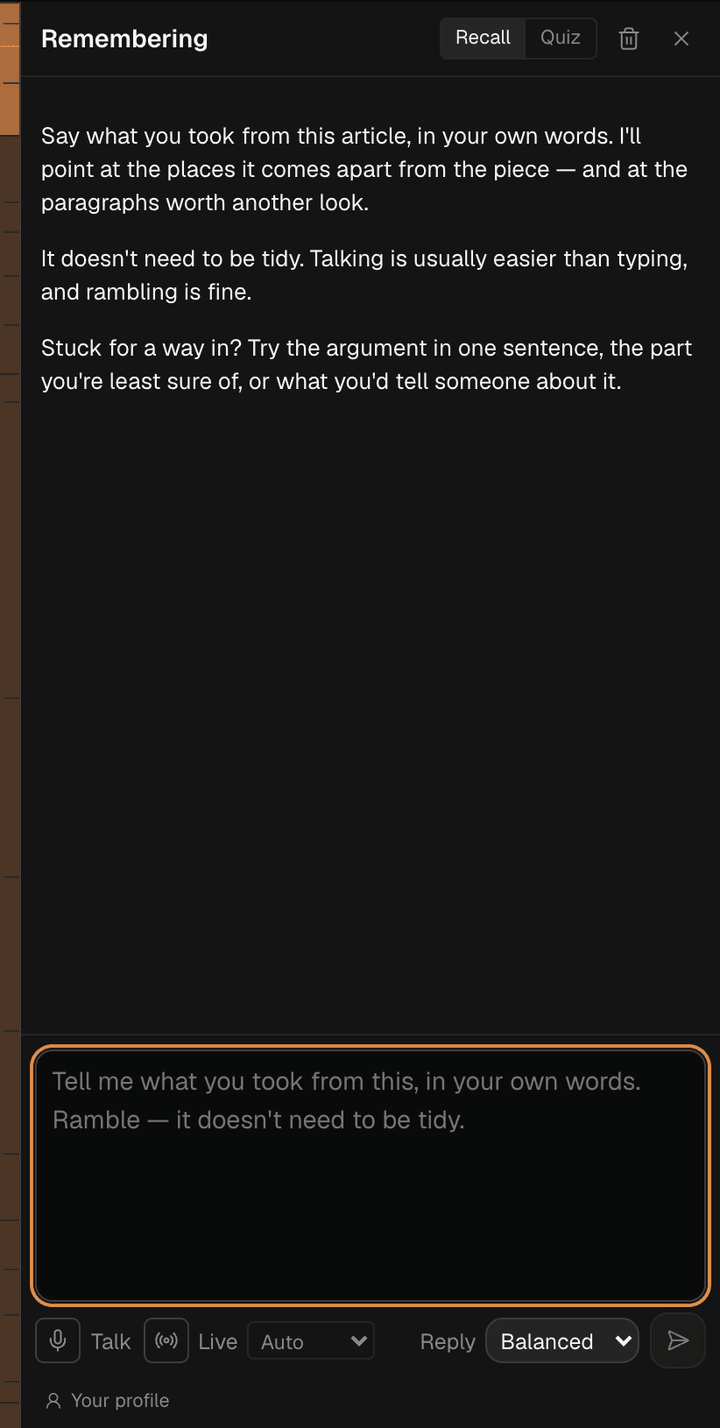
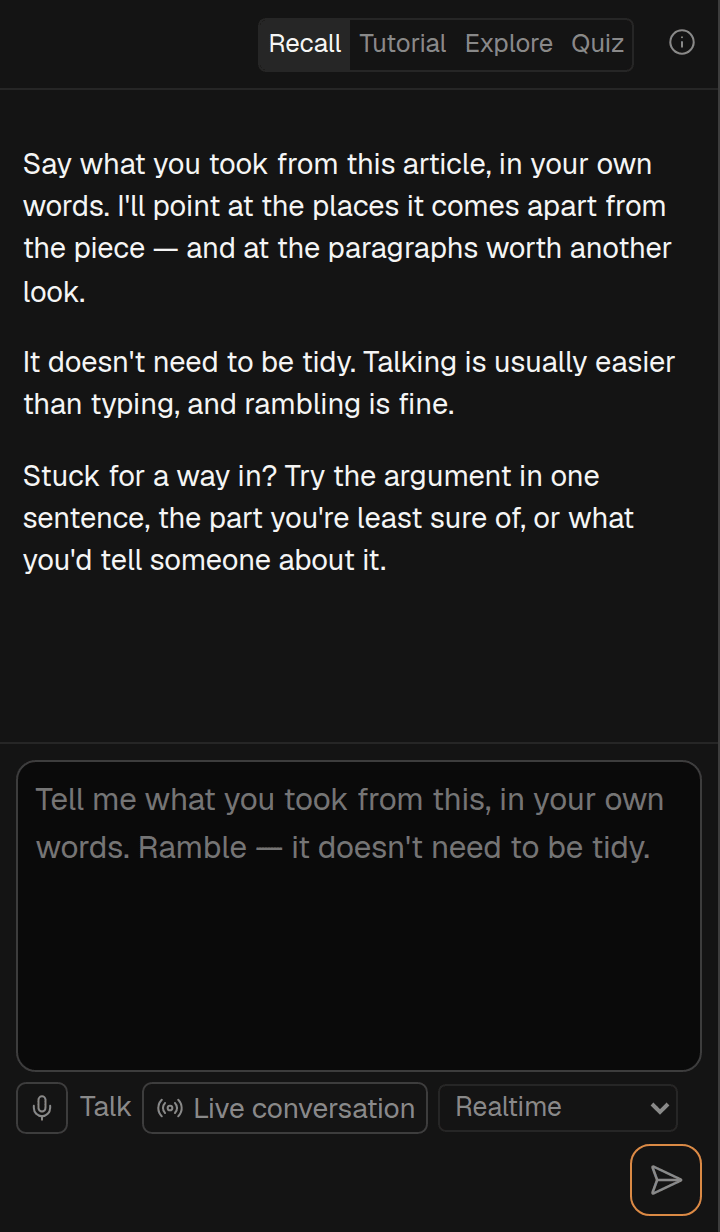
261005l stage 3: the two Features screenshots retaken as Learn, and the browser pass (qi-qg6ydbp7)
learn.png and quiz.png were headed Remembering and Remember and showed two
chips. Both are retaken on the band alone at a 916px window, where Learn's
band is 360 CSS px, at 2x: four chips, no old heading. shots.ts has the new
heights and says how they were made. landing-assets.test.ts was red on the
new bytes with the old numbers, and is green.

The browser pass in the plan's done-check: twelve lines, all hold, nothing
to fix. The record, the screenshots and GPT Sol's plan review (build with
changes, six findings, all taken) are in the plan.

diff --git a/src/web/shots.ts b/src/web/shots.ts
@@ -32,6 +32,18 @@
  * `meaningPanel`) show no bar and were still true, so they stayed.
  * docs/plans/261002b-bring-the-signed-out-home-page-features-and-design-up-to-date.md.
  *
+ * **`learn` and `quiz` were retaken on 2026-10-06**, after the mode was renamed:
+ * the old pair were headed *Remembering* and *Remember* and showed two chips
+ * where there are four. Both are the band alone at a 916×700 window, which is
+ * the width where Learn's band is 360 CSS px (src/web/layout.ts § `bandWidth`;
+ * at 1440 it is 544, and the text would draw at two thirds of its size), at 2×
+ * so the file is 720 wide with no resampling. The experimental switch was on,
+ * so Explore's chip is in both. `quiz` is small because it is mostly flat
+ * background: at `--quality 65-92` it came to 18KB, under the 20KB floor in
+ * tests/landing-assets.test.ts, so that one file was quantised at
+ * `--quality 80-98`.
+ * docs/plans/261005l-remember-becomes-learn-and-explore-covers-critiques.md § Stage 3.
+ *
  * **Every landscape shot is 2160 wide since that retake, and that is the
  * width to keep.** The pages draw a landscape shot at 1152px (SiteBits.tsx §
  * Showcase), so 1440 was 1.25× and visibly soft; 2160 is about 1.9×. The
@@ -140,14 +152,14 @@ export const SHOTS = {
     src: learnShot,
     file: "learn.png",
     w: 720,
-    h: 1428,
+    h: 1232,
     alt: "Learn mode, waiting for the reader to say what they took from the piece.",
   },
   quiz: {
     src: quizShot,
     file: "quiz.png",
     w: 720,
-    h: 1469,
+    h: 962,
     alt: "Quiz mode: short-answer questions generated from the article, one at a time.",
   },
   referee: {

diff --git a/docs/plans/261005l-remember-becomes-learn-and-explore-covers-critiques.md b/docs/plans/261005l-remember-becomes-learn-and-explore-covers-critiques.md
@@ -363,14 +363,13 @@ playwright-core against system Chrome, signed in with `scripts/browser-sign-in.t
 - Then `/features` looked at, at 1440 and 390, one viewport at a time; `naturalWidth`, `complete`
   and computed `opacity` read from the DOM for the two images, not judged from a picture.
 
-**One choice, named: the experimental switch is off for both pictures.** With it off the chips are
-Recall, Tutorial, Quiz; with it on, Explore is a fourth. Off is what somebody who signs up from
-`/features` will see, and a picture that shows a chip they cannot find is the kind of small untruth
-[261002b](261002b-bring-the-signed-out-home-page-features-and-design-up-to-date.md) retook the
-landscape shots to remove. The tile's caption already says Explore is *one of the Experimental
-Features*. What it gives up: the picture does not show Explore at all. The other option, on, shows
-the whole of Learn and matches the caption naming all of it, at the cost above. If Explore leaves
-the switch the picture is reshot with it.
+**One choice, named: the experimental switch is on for both pictures**, so the chips are Recall,
+Tutorial, Explore, Quiz. I first planned it off, because off is what somebody who signs up from
+`/features` sees before they find the switch. The plan review (S3-2) argued for on and I agree:
+the tile's caption names Explore and says it is *one of the Experimental Features*, and `/features`
+already pictures other experimental things (Diagram, Referee). The page shows what the product
+has, not only what is on by default. What it gives up: a new reader sees three chips until they
+turn the switch on, and the picture shows four; the caption is what tells them why.
 
 **The simpler option passed over:** crop or paint over the two headings. Passed over because the
 chips and the picker are also out of date, and a doctored screenshot is not a screenshot.
@@ -394,9 +393,9 @@ A Sonnet subagent, with [browser-control.md](../project/browser-control.md) then
 | Chat's list | a Recall thread's row reads *From Learn › Recall* |
 | Explore, switch on | the empty state's two lines say the wider remit; four starters, the fourth *Where might this piece be wrong, or missing something?* |
 | One real Explore turn | from the fourth starter: sent word for word, a reply streams, it states one possible problem and cites a passage |
-| The address | `?mode=learn` (since 261006a); an old `?mode=remember&remember=quiz` link still opens Quiz |
+| The address | `?mode=learn` (since 261006a), and `?mode=learn&learn=quiz` opens Quiz; an old `?mode=remember&remember=quiz` link opens Learn at **Recall**, because `?remember=` is not aliased (`src/web/params.ts` § Learn's four sub-modes) |
 
-Screenshots of what it saw go in `docs/plans/261005l-shots/` as `s3-*.png`, and the record in this
+Screenshots of what it saw go in `docs/plans/261005l-learn-shots/` as `s3-*.png`, and the record in this
 section. **What it finds:** a wrong word or a broken control that is plainly this report's is fixed
 here, red first; anything wider is written up and named for the Overseer's queue in my final
 message, since this session cannot write the queue.
@@ -404,7 +403,103 @@ message, since this session cannot write the queue.
 ### Done is
 
 Both pictures replaced and `shots.ts` agreeing with them; `tests/landing-assets.test.ts`,
-`tests/features-page-modes.test.ts`, `npm test` on what was touched and `npm run typecheck` green;
-the table above filled in; GPT Sol's review of the diff; pushed to `dev`; the note
-`docs/user-feedback/261005_0748-…` saying all three parts have ended, and
-`scripts/feedback-endings.ts` run.
+`tests/features-page-modes.test.tsx` and `npm run typecheck` green, and the full suite once through
+`scripts/tmux-job.ts` (stage 1's done-check, never re-run after its merge); the table above filled
+in; GPT Sol's review of the diff; pushed to `dev`; the feedback notes saying all three parts have
+ended, and `scripts/feedback-endings.ts` run and showing `spya-mvmpks` as `shipped`.
+
+### What the reshoot produced
+
+Two Sonnet subagents on this worktree's dev server, 2026-10-06, playwright-core against system
+Chrome as the seeded local admin, the experimental switch already on.
+
+| | `learn.png` | `quiz.png` |
+|---|---|---|
+| Was | 720×1428, headed *Remembering*, chips Recall and Quiz | 720×1469, headed *Remember*, chips Recall and Quiz |
+| Now | 720×1232, 35,974 bytes | 720×962, 20,894 bytes |
+| Article | `cargocult-spya-rz663q`, `?mode=learn` | `writes`, `?mode=learn&learn=quiz`; an existing quiz, so no model call |
+| Shows | chips Recall, Tutorial, Explore, Quiz; the invitation; the composer | the same chips; *Question 1 of 3*, *What prediction does Paul Graham make about writing ability in a couple of decades?*, unanswered |
+
+- **The band has no heading any more**, so neither picture says *Learn*; the chips are what names
+  it, and the tile's title is beside it. Read from the DOM: no element in either frame holds
+  *Remember* or *Remembering*.
+- **The window is 916×700, not 1440×900.** At 1440 Learn's band is 544 CSS px wide
+  (`src/web/layout.ts` § `bandWidth` gives the band the room the reading measure does not use), so
+  a 720px file drawn 347px wide on `/features` would put the app's text at about two thirds of its
+  size. The first take was that, and was thrown away. At 916 the band is 360, the capture at 2× is
+  720 with no resampling, and the text draws at 96%. No CSS was injected; this is a real desktop
+  window, above the width where the band becomes a phone's cover sheet.
+- **`quiz.png` was quantised at `--quality 80-98`**, not the 65-92 the doc gives. At 65-92 it is
+  18KB, under the 20KB floor in `tests/landing-assets.test.ts`; the picture is mostly flat
+  background. Opening the reference answer would have added bytes and a bare block-id chip, which
+  reads as debug text. `shots.ts`'s comment says so.
+- **Red, then green.** `tests/landing-assets.test.ts` with the new bytes and the old numbers: 2
+  failed of 29. With `h: 1232` and `h: 962`: 29 of 29. Both `alt:` lines still say what is shown.
+- **`/features`, signed out**, from the DOM at both widths: each image `complete`, `opacity` 1,
+  rendered ratio equal to natural (learn 347.3×594.3 at 1440 and 325×556.1 at 390; quiz 347.3×464.1
+  and 325×434.2). [1440](261005l-learn-shots/s3-features-1440.png),
+  [390](261005l-learn-shots/s3-features-390.png).
+
+### What the browser pass found
+
+On `/read/vb-spya-vu3xen` (*Life is Short*), 1440×900, and 390×844 where marked. Every string is
+read from the DOM. **All twelve lines hold, and nothing needed fixing.**
+
+| Where | Seen | |
+|---|---|---|
+| The bar's button (and at 390) | the sixteenth `role="radio"` reads *Learn*; none reads *Remember* | ✓ [1440](261005l-learn-shots/s3-modebar-1440.png) [390](261005l-learn-shots/s3-modebar-390.png) |
+| The tab title | *Life is Short · Learn · Spideryarn* | ✓ |
+| Command bar, *learn* | *Learn*, *Learn › Recall*, *Learn › Tutorial*, *Learn › Explore*, *Learn › Quiz* | ✓ [shot](261005l-learn-shots/s3-cmd-learn.png) |
+| Command bar, *remember* | the same five rows | ✓ |
+| Command bar, *remember quiz* | *Learn › Quiz* alone; Enter opens `?mode=learn&learn=quiz` | ✓ [shot](261005l-learn-shots/s3-cmd-remember-quiz.png) |
+| The band's (i) card (and at 390) | *Take the piece in and think it through: Recall, a short Tutorial, a Quiz, or Explore your own view of it and where it may be weak — not a course or flashcards.* Explore's line: *Think it through for yourself: your own ideas, where the piece may be weak, and what others say. Starts from what you have marked and discussed* | ✓ [shot](261005l-learn-shots/s3-about-card-390.png) |
+| `/help` | a *Learn* section; every *rememb…* on the page is the verb; its search finds Learn for *remember* | ✓ [shot](261005l-learn-shots/s3-help-1440.png) |
+| `/features` | *Learn.* and *Quiz.* under *Find out what you kept.* | ✓ |
+| Chat's list | the Recall thread's source mark has the name and the popover *From Learn › Recall*; the row's tooltip starts *Open in Learn › Recall*. The mark is an icon, so the words are not on the row until it is pressed | ✓ [shot](261005l-learn-shots/s3-chat-threads-1440.png) |
+| Explore's empty state (and at 390) | *What do you think about this piece? Explore starts from what you've highlighted, noted and talked about here, and helps you take your own ideas further.* / *It can try the piece on cases of your own, look at where it may be weak, and look up what others have said about it.* Four starters, the fourth *Where might this piece be wrong, or missing something?* | ✓ [shot](261005l-learn-shots/s3-explore-empty-390.png) |
+| One real Explore turn | the starter is sent word for word. The reply names one problem (the advice to cut out "bullshit" assumes a freedom most people in precarious work do not have), gives Graham's own qualification first with its passage, cites three blocks, has no list and ends on one question | ✓ [shot](261005l-learn-shots/s3-explore-reply-1440.png) |
+| The address | the bar gives `?mode=learn`; `?mode=learn&learn=quiz` opens Quiz; `?mode=remember&remember=quiz` and `?mode=remember` open Learn at Recall with no error, the address left as typed | ✓ |
+
+**Does the reply stream?** The first run could not say, so a third turn was measured: the new
+reply's length sampled every 100ms, and the response's chunks counted through CDP. `POST
+/api/chat/<slug>` answers `text/event-stream`; 47 chunks over 12.5s; the reply grew from 444 to 906
+characters in 24 steps over 2.3s. So it streams. **But the first character arrived 10.4s after
+send**, behind a steady *thinking…*, and the first step was 444 characters at once. That is the
+model's own thinking and tool calls before it writes, and it is Explore's as built on 2026-10-03,
+not this report's. Named for the Overseer in the hand-back; not changed here.
+
+**Seen along the way, none of it this report's:**
+
+- `GET /api/crossrefs/<slug>` and `/api/citations/<slug>` answer 404 for an article that has none
+  yet, and `/api/quiz/<slug>` for one with no quiz, each leaving *Failed to load resource* in the
+  console. "None yet" said as a 404.
+- The local fixture article `writes` holds a stored conversation reading *Fixture Remember turn…*.
+  Those words are in no file in the tree, so they are rows some test wrote to the shared local
+  database before the rename; no reader sees them.
+- The Quiz (i) card said *12 questions* over a band showing *Question 1 of 5*, which is the *Only
+  what I've read* filter doing its job, but the two numbers sit close together.
+
+### The plan review of stage 3, 2026-10-06 — build with changes
+
+[261005l-learn-stage-3-plan-review-sol.md](261005l-learn-stage-3-plan-review-sol.md), of commit
+`45f3add14`. Six findings, each checked against the tree, all accepted.
+
+| | What | What changed |
+|---|---|---|
+| S3-1 P1 | the table said an old `?mode=remember&remember=quiz` link opens Quiz; it opens Recall | the row is corrected, and `?mode=learn&learn=quiz` is checked as well |
+| S3-2 P2 | the switch should be on for the pictures | on, four chips (§ The reshoot) |
+| S3-3 P1 | one note with `parts: 3` reads as `awaiting` for good: `combineEndings` (`scripts/feedback-endings.ts`) wants one note per part | see below |
+| S3-4 P2 | "Done is" left out the full suite stage 1 still owes | added |
+| S3-5 P3 | the test file is `.tsx` | corrected |
+| S3-6 P3 | a shorter `quiz.png` is fine; it must stay over 400px tall and 20KB | noted for the capture |
+
+**S3-3 is a conflict with this entry's brief, and I took the mechanism's side.** The brief said to
+update the one existing note, write no second note, and keep `parts: 3`. Checked:
+`src/feedback-endings.generated.ts` holds `"spya-mvmpks": "awaiting"` today, and
+`combineEndings([{ ending: "shipped", parts: 3 }])` is `awaiting` by its own test
+(`tests/feedback-endings.test.ts` § *waits while a split report has fewer notes than parts*). So the
+brief as written leaves the report unfinished for ever, which is the opposite of what it is for.
+The two ways out are three notes, or one note without `parts`. The convention in
+[feedback-reports.md § The note](../project/feedback-reports.md) is one note per entry with
+`parts: N` on each, and the identifiers part (`qi-dabpymjd`) never wrote its own. So: the existing
+note is corrected, and two short notes join it, one per other part, each a signpost to its plan.

diff --git a/docs/plans/261005l-learn-stage-3-plan-review-sol.md b/docs/plans/261005l-learn-stage-3-plan-review-sol.md
@@ -1,0 +1,13 @@
+VERDICT: build with changes
+
+1. **P1 — Wrong legacy-link expectation.** `docs/plans/261005l-remember-becomes-learn-and-explore-covers-critiques.md:397` says `?mode=remember&remember=quiz` opens Quiz. It opens Learn at **Recall**: `src/web/params.ts:1306-1310`, `tests/learn-name.test.ts:61-64`. Change the row to expect Recall; separately check `?mode=learn&learn=quiz` opens Quiz. The exact *From Learn › Recall* and fourth-starter wording are correct (`src/web/thread-source.ts:114`, `src/web/ChatPanel.tsx:1841`).
+
+2. **P2 — Use experimental switch ON for both pictures.** The Learn caption explicitly advertises Explore (`src/web/FeaturesPage.tsx:306-312`), and `/features` deliberately pictures other experimental functionality, including Diagram and Referee (`src/web/FeaturesPage.tsx:158-164,334-340`). This page documents available features, not merely default controls. Change `docs/plans/…md:366-373` to four chips, with Explore visible.
+
+3. **P1 — One updated feedback note cannot finish a three-part report.** `docs/plans/…md:409-410` asks for one note, but `scripts/feedback-endings.ts:117-130` requires one note per part; fewer than three remains `awaiting`. Add notes for the identifier-renaming part and Stage 3, each naming `spya-mvmpks` with `parts: 3`, update the existing note’s now-false queued/URL claims (`docs/user-feedback/261005_0748-remember-becomes-learn-and-explore-covers-critiques.md:21-36`), then regenerate endings.
+
+4. **P2 — “Done is” omits the still-unmet full-suite gate.** Stage 1 requires a full run through `scripts/tmux-job.ts` (`docs/plans/…md:107-110`), and the plan records that it was never rerun green after merging (`:327-329`). Replace “npm test on what was touched” at `:407` with the named tests plus a full suite through `scripts/tmux-job.ts`.
+
+5. **P3 — Wrong test filename.** `docs/plans/…md:407` names `tests/features-page-modes.test.ts`; the file is `tests/features-page-modes.test.tsx:1`. Correct the extension.
+
+6. **P3 — Shorter portraits are supported, with two limits.** Per-shot dimensions are intentional (`src/web/shots.ts:5-11`); Gallery imposes no equal height (`src/web/SiteBits.tsx:451-486`), and an existing row already mixes 982px and 1469px portraits (`src/web/shots.ts:111-123`). A shorter `quiz.png` must still exceed 400px and 20KB (`tests/landing-assets.test.ts:144-152`) and have its exact new dimensions recorded (`:155-163`). No layout change is needed, but retain the 1440/390 visual check; captions will intentionally remain ragged.
